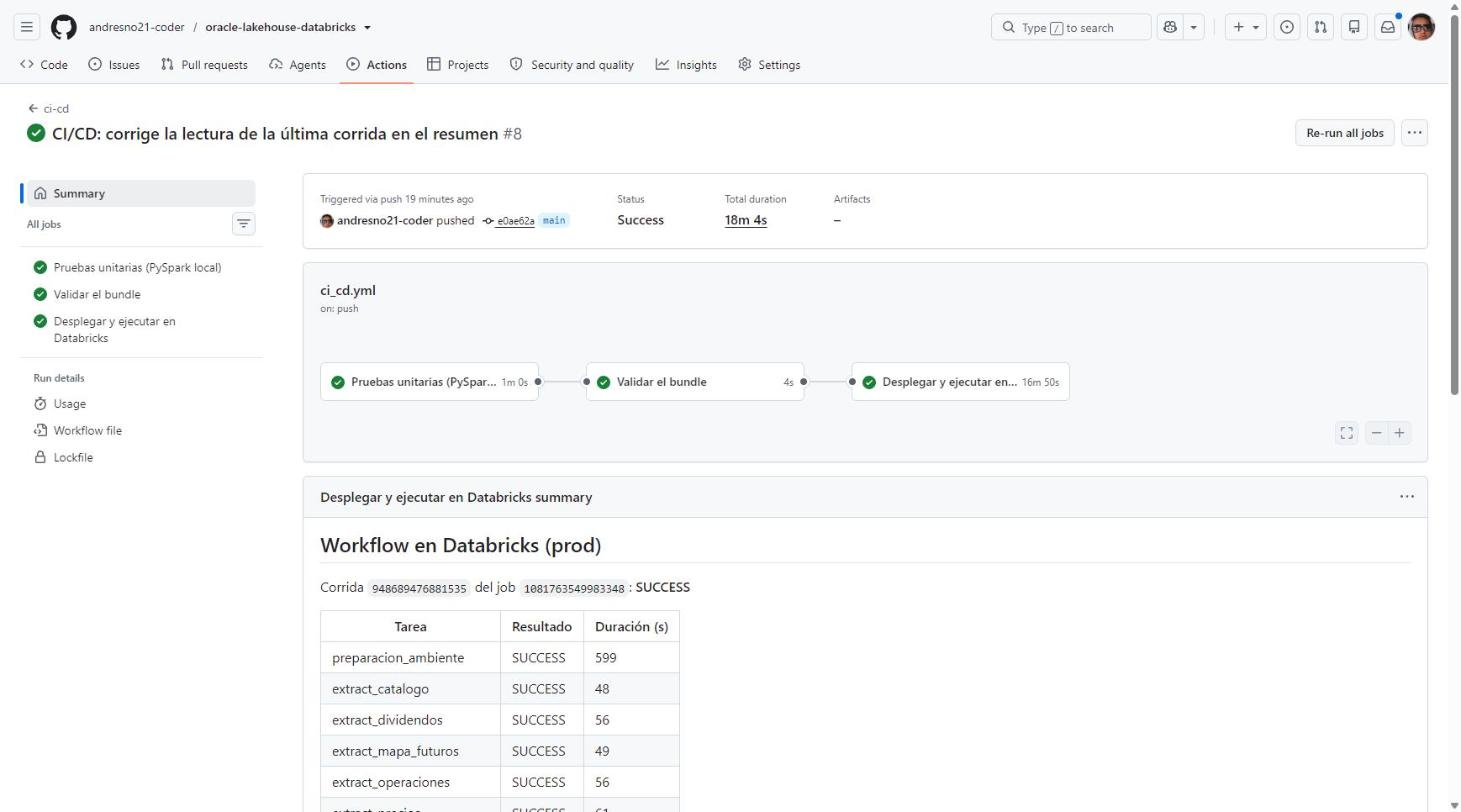
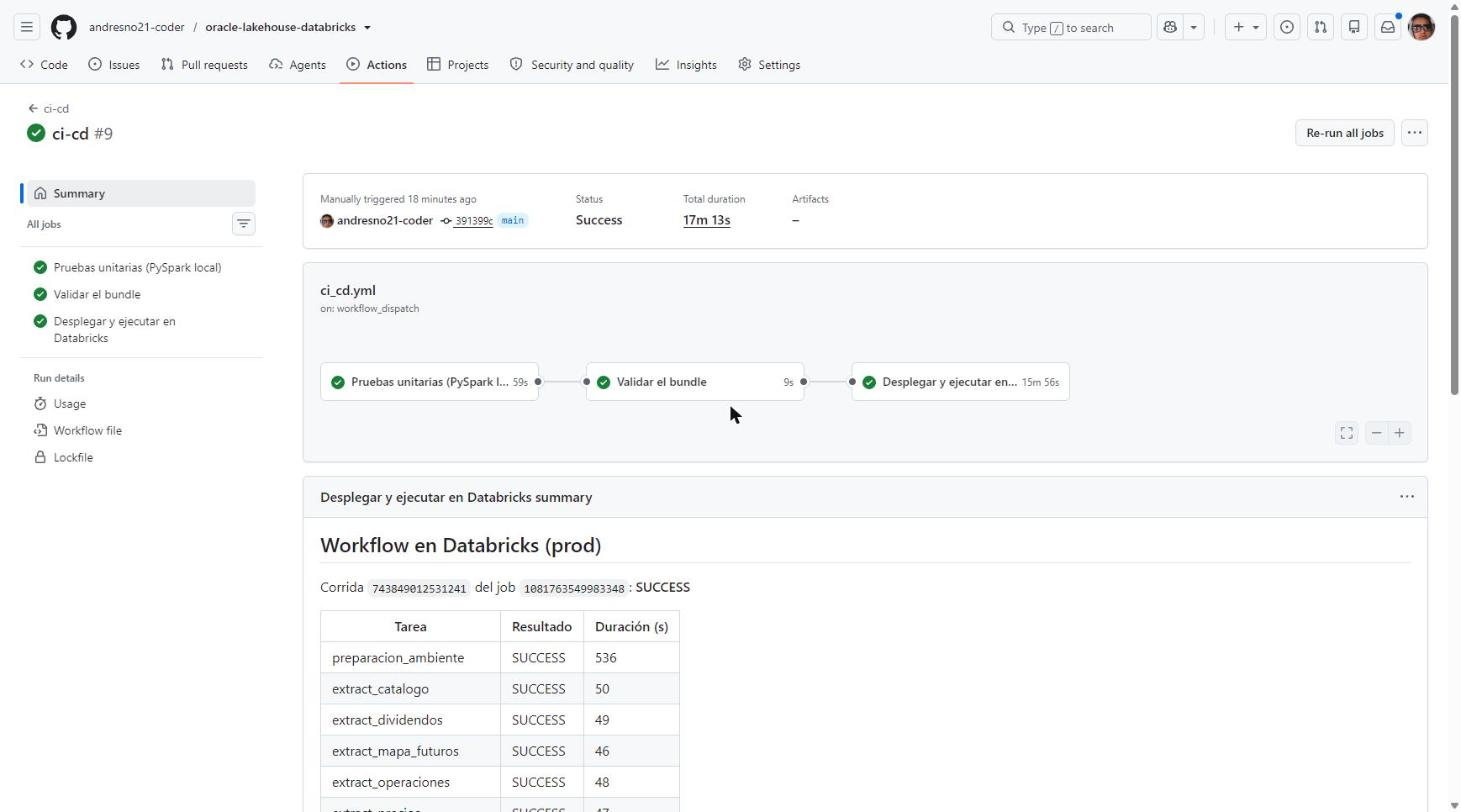
Actualiza la evidencia de GitHub Actions con la corrida n.º 9 [skip ci]

diff --git a/evidencias/README.md b/evidencias/README.md
@@ -14,14 +14,15 @@ Despliegue real del 29-oct-2026 en la suscripción de prueba del autor (región 
 | Base transaccional | Azure SQL Database `oracle` (oferta gratuita, Central US) |
 | Secret scope | `oracle-kv` (servidor, base, usuario y clave de la base) |
 
-## 0. CI/CD: despliegue y ejecución en producción desde GitHub Actions (13-nov-2026)
-`10_github_actions_despliegue_prod_ok.png`: corrida n.º 8 de `ci_cd.yml`, disparada por un push a `main`. Los tres
-jobs en verde (pruebas unitarias → validar el bundle → desplegar y ejecutar en Databricks, 18 min) y el resumen que
-el propio pipeline publica con el resultado de cada tarea del workflow.
+## 0. CI/CD: despliegue y ejecución en producción desde GitHub Actions
+`10_github_actions_despliegue_prod_ok.png`: corrida n.º 9 de `ci_cd.yml` (15-nov-2026) sobre `main`. Los tres jobs en
+verde (pruebas unitarias → validar el bundle → desplegar y ejecutar en Databricks, 17 min) y el resumen que el propio
+pipeline publica con el resultado de cada tarea del workflow (corrida `743849012531241`, 13 de 13 tareas correctas).
 
-`11_workflow_prod_13_tareas_timeline.png` y `12_workflow_prod_grafo.png`: la corrida `948689476881535` del workflow
-`[prod] Oracle Lakehouse · ETL medallion` que lanzó ese pipeline: **13 de 13 tareas correctas en 16 min** sobre un
-clúster efímero de un nodo (`Standard_D4ds_v7`, ya terminado), con el catálogo `oracle_prd`.
+`11_workflow_prod_13_tareas_timeline.png` y `12_workflow_prod_grafo.png`: vista en Databricks de una corrida anterior
+del mismo workflow `[prod] Oracle Lakehouse · ETL medallion`, lanzada por este pipeline el 13-nov-2026 (corrida
+`948689476881535`): **13 de 13 tareas correctas en 16 min** sobre un clúster efímero de un nodo (`Standard_D4ds_v7`,
+ya terminado), con el catálogo `oracle_prd`.
 
 | Etapa | Tareas | Resultado |
 |---|---|---|
